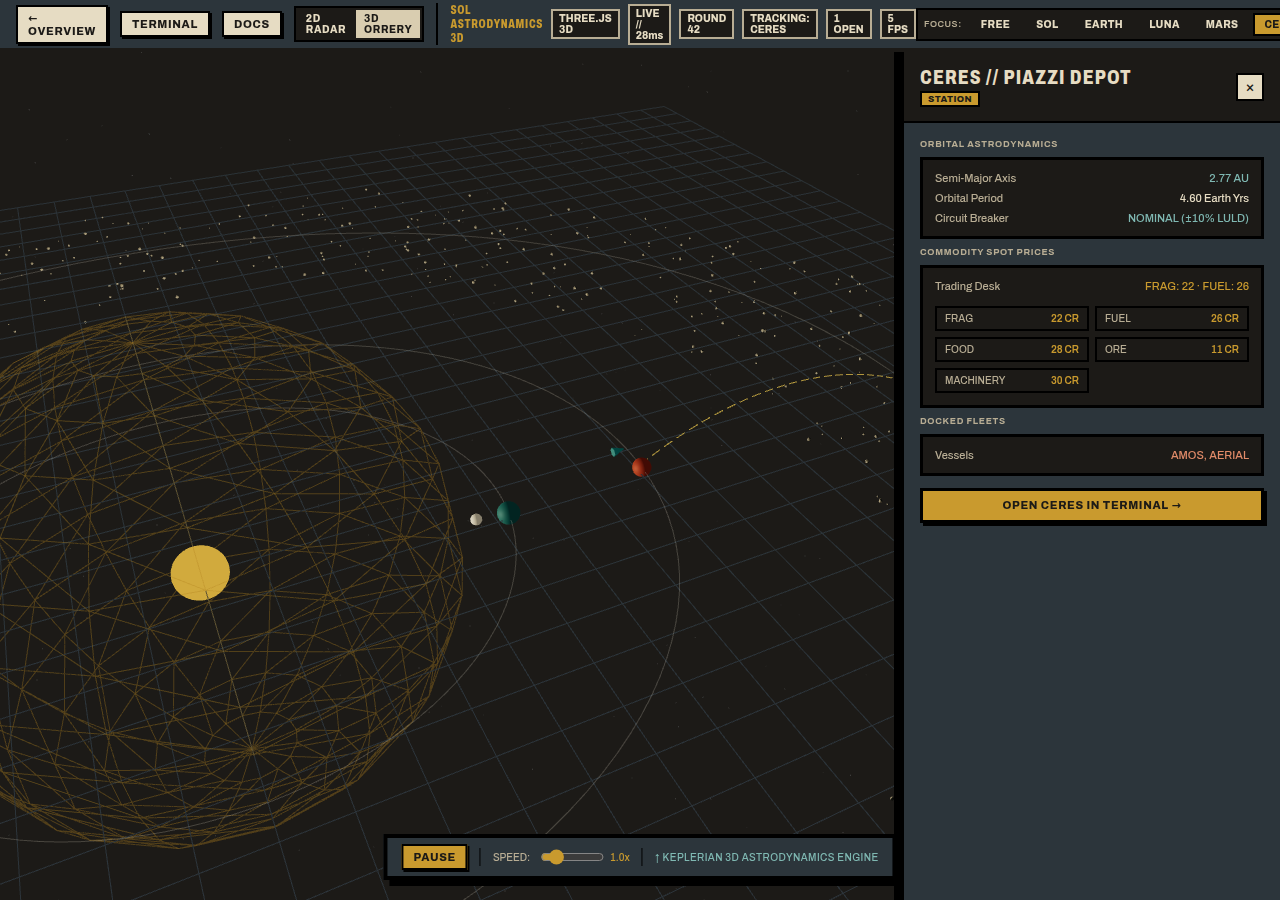
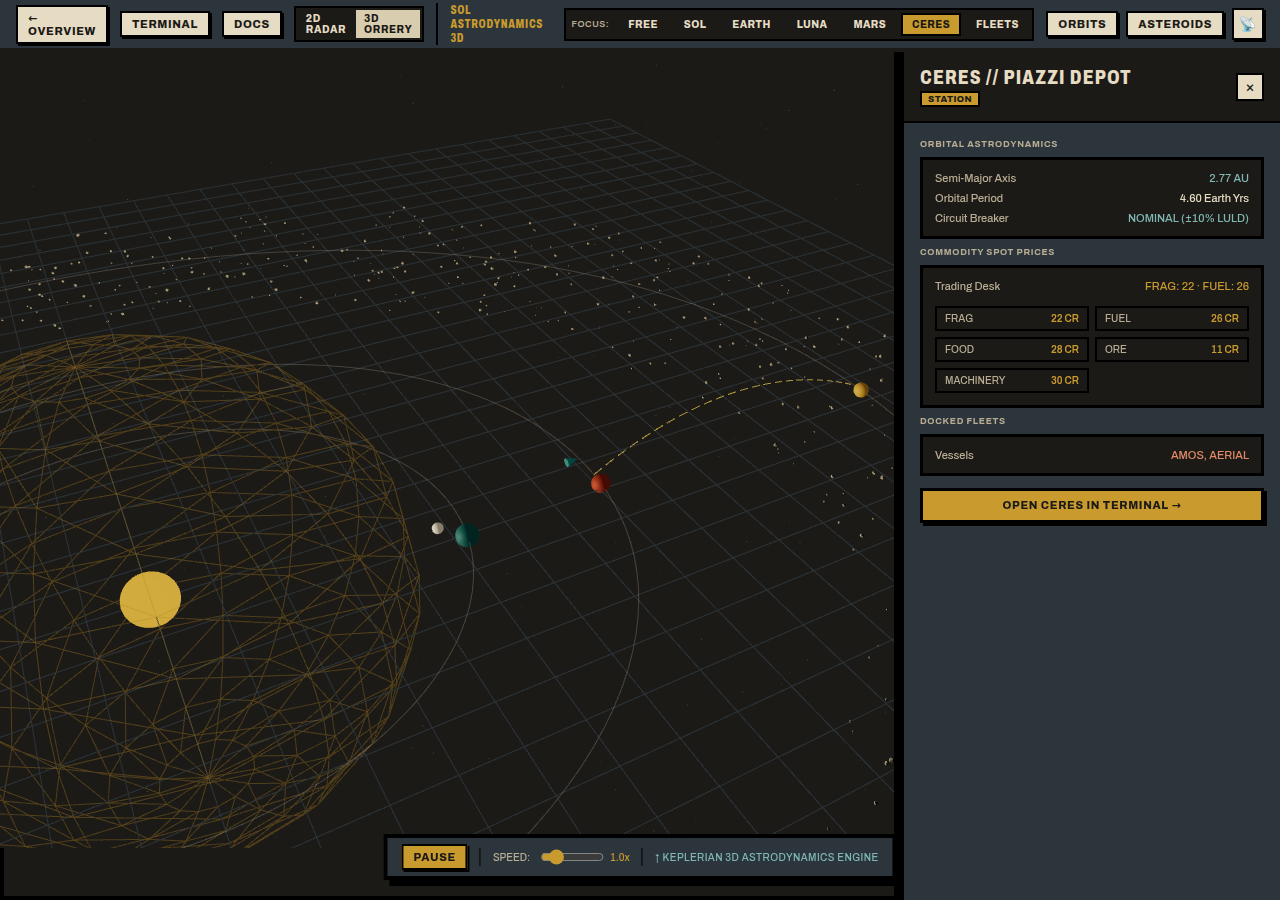
fix(web): patch-notes bullet glyph and 3D orrery header overflow at 1280 (#125 Epic 6)
The bullet marker rendered the literal text &gt; because CSS content does not
decode HTML entities; use \203A. The 3D orrery header overflowed at 1280 and cut
the focus pills; badges hide under 1440 and the pill bar scrolls instead.

diff --git a/public/orrery-3d.html b/public/orrery-3d.html
@@ -189,6 +189,15 @@
   }
 
   /* --- Header Right Controls --- */
+
+  /* Keep the focus pills reachable when the header is crowded (#125 polish). */
+  .header-left, .header-center { min-width: 0; flex-shrink: 1; }
+  .header-center { overflow-x: auto; scrollbar-width: none; }
+  .header-center::-webkit-scrollbar { display: none; }
+  .header-right { flex-shrink: 0; }
+  .orrery-header { gap: 12px; }
+  @media (max-width: 1440px) { .header-title-group .header-badge { display: none; } }
+
   .header-right {
     display: flex;
     align-items: center;

diff --git a/public/patch-notes.html b/public/patch-notes.html
@@ -280,7 +280,7 @@
   }
 
   .patch-bullets li::before {
-    content: "&gt;";
+    content: "\203A";
     position: absolute;
     left: 0;
     top: 0;
